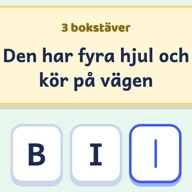
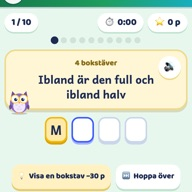
Ordgåtan: flera ledtrådar per ord, äldsta ord först, 50 ord på nivå 1 för granskning, ny kortbild

diff --git a/ovriga/ordgatan/index.html b/ovriga/ordgatan/index.html
@@ -159,7 +159,7 @@ const RUNDA=10,POANG=100,KOSTAR=30;
 
 /* ---------- Lagring (följer med profilen: nyckeln finns i startsidans PKEYS) ---------- */
 const KEY="mattespel-ordgatan-v1";
-const data=(()=>{const tom={stars:{},rekord:{},sett:{},omg:0};try{return Object.assign(tom,JSON.parse(localStorage.getItem(KEY)||"{}"));}catch(e){return tom;}})();
+const data=(()=>{const tom={stars:{},rekord:{},senast:{},vis:{},nr:0,omg:0};try{return Object.assign(tom,JSON.parse(localStorage.getItem(KEY)||"{}"));}catch(e){return tom;}})();
 const save=()=>{try{localStorage.setItem(KEY,JSON.stringify(data));}catch(e){}};
 
 /* ---------- Orden: en fil per nivå i ord/ (så att läraren kan ändra utan att röra koden) ---------- */
@@ -167,7 +167,9 @@ const ORD={};
 const normOrd=s=>String(s||"").toLowerCase().normalize("NFC").replace(/[^a-zåäöéü]/g,"");
 function laddaNiva(n){if(ORD[n])return Promise.resolve(ORD[n]);
   return fetch(`ord/niva${n}.json`).then(r=>r.json()).then(d=>{const sett=new Set();
-    ORD[n]=(d.ord||[]).map(o=>({ord:normOrd(o.ord),led:String(o.ledtrad||"").trim()})).filter(o=>o.ord.length>=2&&o.led&&!sett.has(o.ord)&&sett.add(o.ord));return ORD[n];});}
+    // "ledtradar" är en lista (flera gåtor per ord); en ensam "ledtrad" går också bra
+    ORD[n]=(d.ord||[]).map(o=>({ord:normOrd(o.ord),led:[].concat(o.ledtradar||o.ledtrad||[]).map(x=>String(x).trim()).filter(Boolean)}))
+      .filter(o=>o.ord.length>=2&&o.led.length&&!sett.has(o.ord)&&sett.add(o.ord));return ORD[n];});}
 // alla nivåer laddas direkt, så att omgången kan starta i samma tryck (annars kommer inte tangentbordet upp på surfplattan)
 const klara=Promise.all(NIVAER.map(v=>laddaNiva(v.n).catch(()=>[])));
 
@@ -188,11 +190,15 @@ $("nivaer").onclick=e=>{const b=e.target.closest("[data-n]");if(b)starta(+b.data
 
 /* ---------- Omgången ---------- */
 let G=null,tidT=null,nastaT=null;
-// ord som eleven inte fått än på nivån; när alla är använda börjar listan om
-function valjOrd(n){const alla=ORD[n]||[];let sett=new Set(data.sett[n]||[]);let nya=alla.filter(o=>!sett.has(o.ord));
-  shuffle(nya);let val=nya.slice(0,RUNDA);
-  if(val.length<RUNDA){const fler=shuffle(alla.filter(o=>!val.includes(o)));val=val.concat(fler.slice(0,RUNDA-val.length));sett=new Set();}
-  val.forEach(o=>sett.add(o.ord));data.sett[n]=[...sett];save();return val;}
+// minnet: vilken omgång varje ord senast kom (senast) och hur många gånger det kommit (vis).
+// Omgången tar de ord som legat längst (aldrig använda först), så att inget ord kommer igen förrän alla har kommit;
+// kommer ordet tillbaka får det nästa ledtråd i listan.
+function valjOrd(n){const alla=ORD[n]||[];data.nr=(data.nr||0)+1;
+  const sen=data.senast[n]=data.senast[n]||{},vis=data.vis[n]=data.vis[n]||{};
+  if(data.sett&&data.sett[n]){data.sett[n].forEach(w=>{if(!(w in sen)){sen[w]=0;vis[w]=1;}});delete data.sett[n];}// äldre sparat format
+  const val=shuffle(alla.slice()).sort((a,b)=>(sen[a.ord]??-1)-(sen[b.ord]??-1)).slice(0,RUNDA)
+    .map(o=>{const k=vis[o.ord]||0;sen[o.ord]=data.nr;vis[o.ord]=k+1;return{ord:o.ord,led:o.led[k%o.led.length]};});
+  save();return val;}
 function shuffle(a){for(let i=a.length-1;i>0;i--){const j=Math.floor(Math.random()*(i+1));[a[i],a[j]]=[a[j],a[i]];}return a;}
 function starta(n){if(!ORD[n]){klara.then(()=>ORD[n]&&ORD[n].length&&starta(n));return;}
   stopp();const ord=valjOrd(n);

diff --git a/CLAUDE.md b/CLAUDE.md
@@ -41,7 +41,7 @@ Publiceras med GitHub Pages på **matteportalen.github.io**. Allt språk på saj
 | `ovriga/` | **Övriga ämnen** (startsida i samma stil, grön ton) med rubrikerna **📖 Svenska** (Högfrekventa ord, Ordgömman, Ordgåtan), **🇬🇧 Engelska** (Draw it!), **🔬 NO** (Solsystemet) och **🌍 SO** (Sverigekartan). Kort: **🔤 Ordgömman** (`ovriga/ordgomma/`, nyckel `mattespel-ordgomma-v1` = {stars, klar, antal}, finns i startsidans stjärnor, `snap`, `PKEYS` och `MPStjarnor`): **varje ordgömma genereras** (lärarens krav: inte samma få gång på gång): 12 ord (Färger 10) slumpas ur temats ordbank och läggs i → ↓ ↘ ↗ (**inga ord baklänges**, lärarens val), korsar varandra ibland, utfyllnad med svensk bokstavsfördelning. Kontroll: varje ord finns exakt en gång i alla 8 riktningar, inga ord inuti andra (SOL/SOLSKEN), inga fula ord i utfyllnaden (`FULA`). Testat: 3 000 ordgömmor utan fel, alla olika. Rutnät 12×12, Landskapen 13×13 (VÄSTERGÖTLAND). **Ingen nivåväljare** (läraren). Tio teman med ordlistor som läraren godkänt: Djur, Frukt och grönsaker, Skolan, Kroppen, Färger, Kläder, Väder och årstider (med månaderna), Landskapen, Rymden, Städer i Sverige (ord 3–12 bokstäver; tvåbokstavsord bildas för lätt av en slump). **Design:** pysselblock (rutat papper med spiral) på en **temabakgrund** (äng, picknickduk, griffeltavla, prickar, färgklickar, klädstreck, himmel, gammal karta, stjärnhimmel) med emojis runt om; temakorten på startskärmen visar samma bakgrund. Dra över ordet (rakt eller 45°, åt båda hållen) eller tryck på första och sista bokstaven; överstrykningsgult band medan man drar, rätt = **handritad dubbel kritring** i ny färg och ordet stryks i listan, fel = bandet skakar och blir rosa (inget straff). Bokstäverna i rutnät och lista med **Andika** (Google Fonts, SIL OFL, för läsinlärning), eftersom Baloos L ser ut som Ł. Tryck på ett ord i listan = uppläsning. 💡 Tips: första bokstaven i ett ord blinkar. Klart: konfetti, djuret hoppar, tid; **stjärna per tema bara utan tips** (`klar` 2 = utan tips, 1 = med tips, kortet visar "⭐ Klar" / "💡 Med tips"). **🪐 Solsystemet** (`ovriga/solsystemet/`): 3D med **three.js 0.160.0** från jsdelivr (importmap; kräver internet, annars ett vänligt meddelande). Planetytor från **Solar System Scope (CC BY 4.0)**, komprimerade, i `ovriga/solsystemet/bilder/` (källan står i ℹ). Översikt: solen med glöd, åtta planeter på **verkliga positioner för datumet** (medellängd från J2000), Saturnus ringar, Uranus på sidan, banor, namnlappar (tryck), fart med **🐢 och 🐇** i steg och en text som "1 sekund = 12 dygn" (inte Långsamt/Normalt/Snabbt: läraren påpekade att "Normalt" låter som verklig fart); långsammaste steget är "1 sekund = 1 sekund, som i verkligheten", Idag, ℹ om att storlekar och avstånd inte är i skala. Tryck på en planet: kameran flyger dit och följer med, faktakort med 1–3 fakta för barn. **Tryck på jorden: jordvyn.** Kameran från sidan med solljuset (gula pilar, "☀ Solljus") från ena hållet; jorden snurrar ett varv per dygn med rätt tid på dygnet (dag/natt i egen shader, städernas ljus på nattsidan, moln, atmosfär), lutar 23,4°. Månen visar alltid samma sida mot jorden; fasen räknas från nymånen 6 jan 2000 (29,53 dygn) och stämmer med verkligheten. Ruta uppe till höger: **månen som vi ser den härifrån** (egen kamera vid jordytan, norr upp: tilltagande = höger sida upplyst), fasens namn (Nymåne, Tilltagande skära, Halvmåne (första kvarteret), Tilltagande måne, Fullmåne, Avtagande måne, Halvmåne (sista kvarteret), Avtagande skära), "Dag X av 30" och procent upplyst, plus en förklaring. Dra månen runt jorden eller använd reglaget; knapparna Ett dygn, En månad, Ett år spelar upp tiden. Bakåt i webbläsaren går från jordvyn/planeten till översikten. Bara att utforska, inga stjärnor. Direktlänk `solsystemet/#jorden` (från Rymdlabbets Månens faser) öppnar jordvyn som första steg, knappen heter då "← Rymdlabbet". **Rymdmatta:** en mjuk ljudslinga (`Ljud.rymd` i ljud.js: djupa toner, långsamma ackord Am9–Fmaj7–Cmaj7–Em7, glitter med eko) går hela tiden i 3D-solsystemet för känslan (lärarens önskan); startar vid första trycket, följer ljudknappen, stoppas när fliken göms. Översikten har alltid knappen **"← Rymdlabbet"** uppe till vänster (går bakåt om man kom från labbet, annars öppnas labbet). **🔭 Rymdlabbet** (`ovriga/rymdlabbet/`, kortet under NO som ersatte Solsystemet-kortet): läraren vill ha en **interaktiv lärmiljö som visar saker eleverna kan förstå, inga poäng, pass eller uppdrag** (rymdpass och rymduppdrag valdes bort). Överst ett **stort kort "🪐 Solsystemet i 3D"** (startport med planeterna i rad), sedan grupperna. Meny med lägen, varje läge har en förklaring med 🔊 som ändras efter vad eleven gör: **🌍 Dag och natt** (3D-jord med three.js som laddas först här; solljuset från vänster; ett gult sken med texten "Solljuset kommer härifrån" **följer med när man vrider kameran** och hamnar vid den kant där solen är ("rakt bakom dig/jorden" när den pekar mot eller från kameran), kameran snett ovanifrån; platsen Malmö/Stockholm/Kiruna med röd prick och en tjock ring på breddgraden som är **gul där det är dag och blå där det är natt**; reglage för klockan, "Spela ett dygn", datumen Idag/Midsommar/Lucia; rutan **Himlen hemma mot söder** (öster vänster, väster höger) med solens bana och läge; soluppgång och nedgång i svensk klocktid med sommartid, kontrollerat mot almanackan), **🍂 Årstiderna** (två vyer, lärarens önskan: **🌞 Runt solen** först: 3D-bild snett ovanifrån med solen i mitten, jorden (större än i verkligheten) som åker runt, **jordaxeln som alltid pekar åt samma håll, mot Polstjärnan** (lutar mot solen vid midsommar, bort vid jul), färgade årstidsbitar längs banan (vår grön, sommar gul, höst orange, vinter blå) med datumen, solstråle till jorden; en **röd knappnål utan text över Stockholm** som snurrar med jorden (textlappen "Sverige" var i vägen, men läraren vill se var vi bor); datumen ligger under jorden (på bortre sidan ovanför banan) så att de inte täcker jordgloben; **dra jorden runt banan**, kameran anpassar avståndet så att hela banan syns; den lilla rundeln ovanifrån togs bort. **🌍 Nära jorden**: samma jord som förut; jordaxeln lutar 23,4° åt ett håll som vrider sig ett varv på ett år, vid midsommar mot solen; datumreglage, 21 mars/juni/september/december, Spela ett år; liten bild ovanifrån med jordens bana; dagens längd, solhöjd mitt på dagen, midnattssol och mörkertid i Kiruna, jämförelse mellan städerna; rad om att det är tvärtom i Australien; solbanan med midsommar och jul streckade; snö på marken på vintern; "lutningen, inte avståndet"), **🌙 Månens faser** (länk till Solsystemets jordvy), **🌑 Förmörkelser** (2D ovanifrån, inte i skala: dra månen runt jorden, skuggor; mellan solen och jorden = solförmörkelse med strålkrans i rutan "Så ser det ut från jorden", bakom jorden = röd måne; annars visas månens fas; knappar Solförmörkelse/Månförmörkelse/Låt månen gå runt; förklaring om att månens bana lutar), **📏 Hur stora är de?** (planeterna, månen och solen i rätt storlek, zoomreglage och knapparna De små/Alla/Med solen, rullar i sidled i rutan, tryck på en planet: bredd, gånger jorden, hur många jordar som ryms), **🛣 Hur långt bort?** (avstånden rätt, planeterna förstorade; ⚡ ljus från solen med 1 s = 1 min eller 10 min och tid vid varje planet; Bara de inre; fotbollsjämförelsen och bilen till solen), **🔄 Ett år på varje planet** (alla startar på en linje, varv per planet, fart 10 dygn/1 månad/1 år per sekund; **Hur gammal är du?** med − och +, ålder på varje planet), **⚖ Väg dig och hoppa** (vikt med − och + (5–150 kg), kort per himlakropp med kg, gånger lättare/tyngre, gasplaneter "vi låtsas att du står på molnen", solen 837 kg men ingen kan stå där; **hoppa**: elevens djur hoppar samtidigt på jorden (30 cm) och vald himlakropp med verklig tid i luften, så att det går i slow motion på månen (182 cm)). Data från NASA; bilderna från `../solsystemet/bilder/`. **Stjärnor och universum** (tredje gruppen): **🌌 Zooma ut i universum** (reglage och knappar genom 8 steg: jorden, jorden och månen, inre solsystemet, hela solsystemet, närmaste stjärnorna med avstånd i ljusår, **Vintergatan** med "Du är här", Andromeda och grannarna, universum; tonar och zoomar mellan stegen; fakta per steg, bl.a. vad ett ljusår är), **⭐ Jättarna i rymden** (jorden, Jupiter, solen, Sirius, Sagittarius A*, Arcturus, Polstjärnan, Rigel, jordens bana, Betelgeuse, Jupiters bana, VY Canis Majoris, UY Scuti, Stephenson 2-18, Neptunus bana, M87*, TON 618): **på rad bredvid varandra** från minst till störst (lärarens önskan, inte i varandra); nya himlakroppar kommer in från höger och **kameran zoomar ut** mjukt (reglaget går genom himlakropparna, aktuell hålls ca 60 % in och ca halva bildens höjd; de små försvinner till vänster med texten "för små för att synas"); **▶ Resa genom jättarna** glider och stannar vid varje; aktuell himlakropp väljs automatiskt och visas i **inforutan** (bild, typ, bredd, avstånd, temperatur eller tyngd, "om solen var en fotboll"); stjärnorna ritas med solens yta i stjärnans färg, svarta hål med glödande gasskiva; streckade ringar för planetbanorna; storlekarna är ungefärliga. **🕳 Svarta hål** (**gummiduken**: perspektivritad duk som buktar ner; Solen, Svart hål lika tungt (samma bana långt ut, mycket djupare grop nära, lärorikt), Jättesvart hål; Släpp en planet (cirkelbana), dra på duken för att rulla en kula, 💡 Skicka ljus (strålarna böjs och fångas av hålet); **Krympmaskinen**: jorden blir ett svart hål 1,8 cm brett (vindruva), solen 6 km (liten stad)), **✨ Stjärnhimlen över Sverige** (riktiga positioner för stjärnor och stjärnbilder: Karlavagnen, Lilla björn, Kassiopeja, Orion, Sommartriangeln och klara stjärnor; mot norr eller söder, klockreglage 17–07, datum Idag/Jul/Vår/Sommar/Höst, Se himlen vrida sig runt Polstjärnan, ljust på sommarnätter), **🔥 En stjärnas liv** (två vägar: som solen: gasmoln, ny stjärna, stjärna, röd jätte, vit dvärg; jättestjärna: gasmoln, blå jätte, röd superjätte, supernova, svart hål; knappen "Hur blir ett svart hål till?" i Svarta hål leder hit). **Canvas-typsnitt:** skriv `"Baloo 2"` med citattecken i `ctx.font`, annars ignoreras hela inställningen (siffran i namnet). **🗺 Sverigekartan** (`ovriga/sverigekartan/`, inför åk 4 men för alla): Sveriges 25 landskap med **landskapsdjur, landskapsblomma och vapen**. Landsdelarna som nivåer (Götaland, Svealand, Norrland, Hela Sverige). Lägen: **Utforska** (tryck på ett landskap: vapen, namn med 🔊, landsdel, djur- och blombild, en kort fakta; "Visa namn"), **Vilket landskap?** (ett landskap lyser, 4 namn), **Hitta landskapet** (tryck på kartan; små landskap som Öland räcker att trycka nära), **Pusslet** (dra landskapen till sina streckade platser; bitarna ligger bredvid/under kartan och blir full storlek när man lyfter dem). Fel: rätt landskap lyser, förklaring, uppgiften kommer tillbaka. Efter rätt svar visas vapen, djur och blomma som minneshjälp. **📍 Sätt nålen** (lärarens idé, ligger under **Städer**): hela Sverigekartan med **landskapsgränser men utan färger, namn, sjönamn och prickar**; "Var ligger Västerås?", man trycker var som helst och en nål sätts; sedan visas staden (prick, namn, stadens landskap med kontur), en streckad linje och **hur många km från staden nålen hamnade** (kartpunkten räknas tillbaka till lat/long med Newton på anpassningen, sedan storcirkelavstånd; ≤10 km = "Mitt i prick!"). **Inom 80 km = bra** (grönt, går vidare själv; lärarens gräns), längre bort = rosa, "Över 80 km, den behöver du öva mer på" och Fortsätt; frågan kommer inte tillbaka. Stjärna med minst 8 träffar av 10, resultatet visar snittavståndet. "på Gotland/Öland", annars "i". **🏆 Stora landskapsprovet** och **🏆 Stora stadsprovet** (lärarens önskan: ett test med alla på en gång): alla 25 landskap respektive alla 31 städer en gång var på hela kartan (Hitta-läget), fel kommer inte tillbaka; resultat "24 av 25" och "Öva mer på: …"; stjärna med minst 90 % rätt (`klar.prov` bit 256/512, `stars.prov`). Spelkartan är lägre på mobil (100dvh − 250 px) så att hela Sverige syns utan att skrolla. **Städer** (växeln 🏞 Landskap / 🏙 Städer): 31 städer, de stora (Stockholm, Göteborg, Malmö, Uppsala, Västerås, Örebro, Linköping, Norrköping, Helsingborg, Jönköping, Umeå, Gävle, Sundsvall, Luleå, Kiruna, Karlstad, Östersund, Falun, Visby …) plus en i varje landskap (Sveg, Åmål, Borgholm, Uddevalla, Hudiksvall, Örnsköldsvik …); Lund togs inte med (för nära Malmö). Lägen: Utforska städerna (prickar, namn, stadens landskap med vapen, en fakta), Vilken stad? (hälften "vilken stad lyser?", hälften "i vilket landskap ligger X?"), Hitta staden (tryck på rätt prick, närmaste prick inom 26 px). Stockholm har tjock ring (huvudstad), pricken som lyser är orange och större. Lägena räknas från latitud/longitud med en andragradsanpassning till kartan (Sveriges ytterpunkter som stödpunkter); kuststäder flyttade in max 1,5 enheter. Stjärnor: en per spel och landsdel (Vilket, Hitta och stadsspelen med högst ett fel, Pusslet klart, Sätt nålen 8 av 10 nära), sex per landsdel, plus två för proven och två för älvarna. En stad blir mörk efter två rätt i rad (`stad`). Ett landskap färgas på kartan efter två rätt i rad och kan bli blekt igen vid fel (som samlingarna). **Karta:** landskapsgränserna från Sverigekarta-Landskap.svg (Lapplänning, CC BY-SA 2.5), förenklad och inlagd i sidan; sjöarna är hål (Vänern, Vättern, Mälaren har namn). **Naturkartan under** (lärarens önskan, den gamla var blek): `bilder/norden.jpg` (1570×1480, ca 240 kB) gjord av **Natural Earth (public domain)**: höjdfärger med relief, sjöar och älvar (HYP_HR_SR_OB_DR) blandat med vegetation (NE1_HR_LC_SR_W), omräknad till kartans koordinater (projektion RT90/EPSG:3021 + affin anpassning mot landskapens kust, median 0,8 enheter ≈ 2 km), Sverige i starkare färger, grannländerna dovare, sjöar blå. Skriptet ligger inte i repot; `NORDEN` i sidan = bildens läge, grannländernas konturer (streckade) och namn på länder och hav. Landskapen ritas som **genomskinliga ytor** med vita gränser ovanpå. **Bildens form följer rutan** (`fitBox`): Sverige i mitten, grannländerna fyller kanterna i stället för tomma ytor. **Spelskärmen** (omgjord, frågan var lätt att missa och halva skärmen var tom på dator): frågan **stor överst** i en vit ruta (stannar kvar högst upp när man skrollar), förloppslinje under; **kartan till vänster** i full höjd, **panelen till höger** med svarsknappar eller en "så gör du"-ruta (👆/📍/🌊/🧩), återkoppling, kortet med vapen, djur och blomma, Fortsätt och **rundans svar** (✓/✗-lappar). **Bilder** i `bilder/` (beskurna 360 px): blommor ur **Lindmans Bilder ur Nordens flora** (PD), lin ur Köhlers Medizinal-Pflanzen, mosippa ur Sturm, ölandssolvända ur Atlas der Alpenflora; fåglar ur **von Wrights Svenska fåglar** (Rawpixel-skanningar, CC BY-SA 4.0), däggdjur ur **Thorburns British mammals** (PD), Wilhelm von Wrights lodjur, Audubons fjällräv (CC BY 2.0 Rawpixel), Iconographia Zoologica (björn, älg, varg, bäver, rådjur, PD), Dürers ekoxe, von Wrights lax ur Skandinaviens fiskar; vapen från Wikimedia Commons (CC BY-SA, Leonid 2/Lokal_Profil). Målningar valdes framför emojis och foton (lärarens val). Full källförteckning i sidan ("Bilder och källor"). Landskapsblommor enligt Naturhistoriska riksmuseets Den virtuella floran, annars Wittrock. Nyckeln `mattespel-sverigekartan-v1` ({stars, klar, kan}) finns i startsidans stjärnor, `snap` och `PKEYS` och i sidhuvudets `MPStjarnor`. **🌊 Älvar** (tredje fliken, alltid hela Sverige, inga landsdelar): 13 älvar (Torne-, Kalix-, Lule-, Pite-, Skellefte-, Ume-, Ångermanälven, Indalsälven, Ljungan, Ljusnan, Dalälven, Klarälven, Göta älv) med landskap de rinner genom, var de rinner ut och en fakta. Linjer från **Natural Earth** (public domain), omräknade med samma anpassning som städerna, beskurna till Sverige (punkter nära gränsen räknas, Torneälven är gränsälv), ihopfogade så att första punkten är källan och sista mynningen. Lägen: Utforska älvarna (tryck på en älv; bred osynlig träffyta), Vilken älv? (8 frågor, en älv lyser), **Följ älven** (5 älvar: börja vid den gröna källpricken och dra längs älven, vattnet fylls på efter fingret, inom ca 28 px; framme vid 🌊 visas var den rinner ut). Stjärnor under `klar.alv`/`stars.alv` (bit 64 Vilken älv med högst ett fel, 128 Följ älven), högst 2. **Uppläsning bara med 🔊** även här. | `mattespel-sverigekartan-v1` |
 | `ovriga/hogfrekventa/` | **📖 Högfrekventa ord** (Övriga ämnen, 📖 Svenska, först; lärarens önskan: träna helordsläsning). **200 ord i 20 paket om 10**, **flera paket kan väljas samtidigt** (lärarens önskan; tryck på paketen, "Välj alla påbörjade", "Bara ett paket"; `pks`; Lär dig visar alla valda ord, Blixtläsning och Hitta ordet tar ord ur de valda, helst sådana man inte kan än, Ord på en minut tar orden ur de valda paketen) (`PAKET`, ordningen efter hur vanliga orden är i barntext, listan godkänd av läraren: i, och, det, är, jag …). **Källa och täckning** (kontrollerat okt 2026): Språkbankens **LäSBarT** (lättläst svenska och barnbokstext, CC BY 4.0), bara barnböckerna (åldrarna 6–9 och 9–12, 426 500 ord): de 200 orden stod först för **60,6 %** av orden (en ren topplista skulle ge 64,9 %; topp 100 = 56 %, topp 300 = 70 %); står i en ℹ-rad på startskärmen. Ovanliga i barnböcker: sade (böckerna skriver "sa"), skola, leker, imorgon, slutade, rolig, dricker, katt, skriker, bok, säng, sover, hund; vanliga som saknas: ha, blir, få, göra, min, hans, hennes, ni, ta, allt, några, mer, tillbaka, säga, mitt, finns, kvar, ihop, ingenting, din (**bytta okt 2026**, lärarens beslut: i paket 8, 12, 15, 16, 17 och 20 på samma platser; täckningen är nu **62,8 %**, ℹ-raden säger 63 %; stjärnorna räknades om en gång, `lista: 2`). Analysskriptet ligger inte i repot. **✏ Egna ord** (lärarens önskan): ett 21:a paket där en vuxen skriver in egna ord (högst 40, mellanslag eller kommatecken, bara bokstäver, gemener, utan dubbletter; `egna`, paketindex 20), fungerar i alla lägen som de andra paketen; "✏ Ändra egna ord" när det är valt. Ingen markering av ord som inte låter som de stavas (lärarens val: 👂 och "låter som" togs bort överallt). Typsnittet **Andika** (som Ordgömman), en klar färg per ord. Lägen: **👀 Lär dig orden** (ordet stort, 🔊 Hör ordet, Väljaren **Ljud | Stavelser | Hela ordet** (lärarens önskan; överst i Lär dig orden och på startskärmen, sparas i `visa`): **Ljud** = skenan med ett streck per ljud, **Stavelser** = ett streck per stavelse och en hel stavelse lyser åt gången, varannan stavelse i lite mörkare färg (`stavelser(w)` bygger på ljuden: dubbelteckning och r-ljuden delas, mam·ma, bor·ta; ng och ck stannar i stavelsen före, spring·er, tyck·er; annars hamnar sista konsonanten före en vokal i nästa stavelse, le·ker, kan·ske, till·sam·mans, i·mor·gon; ord med en stavelse, som kväll, får **en enda markering** och texten "Ordet har bara en stavelse", lärarens önskan), **Hela ordet** = ingen skena, bara ordet och 🔊. **Ljuda ordet** (ersatte "Visa ljuden", lärarens önskan efter en läsapp i ett klipp): barnet **drar en knapp längs en skena** under ordet, ljudet ovanför knappen lyser rött och förstoras, prickar under varje ljud och **bågar över ljud med flera bokstäver**; når knappen slutet lyser hela ordet ("Snyggt! Nu läste du ihop ljuden" om det gick fort, annars "Dra lite fortare nästa gång"); barnet säger ljuden själv (datorns röst kan inte säga enstaka ljud, den säger "ess" för s), 🔊 läser hela ordet; långa ord krymper tills de får plats; ord i `HELORD` får ingen skena ("lär man sig som ett helt ord"). Uppdelningen i ljud (`ljud(w)`, lärarens fynd: bokstav för bokstav blev fel; sk före e/i/y/ä/ö, sj, skj, stj, sch, tj, kj, dj, gj, hj, lj, ng, ck, ch, rs, rt, rd, rn, rl (första, bort, barn, lärarens påpekande) och dubbelteckning som tt/mm är ett ljud, sk före a/o/u/å är s + k; ord som inte följer reglerna, `HELORD`: och, det, är, jag, de, dem, var, vad, mig, dig, sig, också, säger, honom, sedan, sade, bredvid, lyser som en helhet; huvud och aldrig ljudas, och morgon/imorgon ljudas m·o·rg·o·n med rg som ett ljud (`EGNA`), lärarens val), så att bokstäverna kopplas till ljuden; forskningen säger att helord fastnar så, inte genom att minnas formen), **⚡ Blixtläsning** (20 ord: paketets två gånger och några tidigare, i vald fart 3/2/1,5/1/0,5 s (0,5 s önskat av klassen) med en stapel som krymper; eleven läser högt; efteråt trycker eleven på svåra ord, resten räknas som lästa), **🔍 Hitta ordet** (strömlinjeformat, lärarens önskan: **ordet läses upp direkt** (undantag från "uppläsning bara med 🔊", lärarens val för just den här övningen), eleven trycker på rätt ord bland fyra liknande, rätt = grönt och pling och **nästa ord kommer av sig självt**, fel = skakar och ordet läses upp igen; "🔊 Hör igen" finns kvar; rättar sig självt), **⏱ Ord på en minut** (lärarens önskan: som på Legilexi, en lång lista med **150 ord** ur paket 1 till valt paket, aldrig samma ord två gånger i rad, så att även de snabbaste inte hinner klart; 3-2-1, en minut; en vuxen trycker på felläsningar (röda, överstrukna) och sedan på ordet där eleven slutade; resultat = rätt lästa ord på en minut, med stapeldiagram över de senaste gångerna och rekord; inga normer). Välj lista: **Övade ord** (blandat ur valda paket) eller **📈 Stigande lista A/B** (lärarens önskan, i samma anda som Legilexis AVK1/H4 av Rikard Lindahl, där 144 riktiga ord blir successivt längre och svårare, men **en egen lista**, inte kopierad): 150 vanliga ord ur barnböckerna i LäSBarT i sex steg (2–3 bokstäver ljudenliga, 3–4 ljudenliga, 4–5, tvåstaviga 5–7, trestaviga 6–9, 3–5 stavelser 9–14 bokstäver), de vanligaste orden i varje steg delade varannan till A och B och sorterade efter längd; samma ord varje gång så att resultaten kan jämföras över tid; långa ord med mindre text; resultaten sparas för sig (`stig`, med version) och räknas inte in i paketens "kan" (bara övningens egna ord gör det); **inte normerad**, inga nivåer (lärarens beslut: en jämförelse mot H4 hoppades över). Ordbitar och bokspecifika ord borttagna (säkerhets, knäpptanten, urmakaren, glasögonmannen …). Analysskriptet ligger inte i repot. **🎤 Lyssna på mig** (lärarens önskan; tillval, av från början, ruta med förklaring innan det slås på): webbläsarens taligenkänning (Chrome/Edge skickar ljudet till Google/Microsoft, Safari till Apple, Firefox saknar den; i skolan bör dataskyddsombudet tillfrågas), används i Blixtläsning (ordet blir grönt och plingar när datorn hör det) och i **Ord på en minut** (lärarens önskan: datorn följer med i listan, hörda ord blir gröna, även om eleven hoppat över ett eller två ord; när minuten är slut föreslås det sista hörda ordet som slutord och den vuxna bekräftar eller trycker på rätt ord; felläsningar markerar den vuxna); **matchningen från Mikrofonlabbet** (okt 2026, efter lärarens test): uttalsformer (`UTTAL`, även har: ha, hör), längre ord får skilja en bokstav, korta ord en extra bokstav (vi/vid) om det inte är ett annat ord i listan, två ord som hörts ihop delas ("förmed" = för + med, `ihop`); i Blixtläsning räknas ordet som visas eller det förra; i Ord på en minut används även preliminära resultat (orden blir gröna medan eleven läser), bara nya ord i hela texten sedan lyssnandet startade räknas (Chrome flyttar gränserna mellan resultaten), och ett ord letas upp till åtta ord framåt och fyra bakåt (lärarens inspelning: 29 av 30, förut 27); **Två sätt att lyssna** (lärarens val efter mobiltestet, där KB-Whisper hörde 22 av 30 med 0,5 s per körning): i rutan "Lyssna på mig" väljer man **🌐 Webbläsaren** (som förut) eller **🧠 I enheten (KB-Whisper)** (`data.motor` = "web"/"kb"); sidan föreslår webbläsaren i Chrome på dator (inte Chrome eller Samsung Internet på Android, lärarens fynd; lärarens mobiltest gjordes i Samsung Internet) och I enheten annars ("Föreslås här", `FORSLAG`; Edge och Safari stänger av lyssnandet efter korta pauser). I enheten laddas modellen ner när man trycker Slå på, med mätare ("Laddar ner 20 av ca 52 MB"), och sedan i förväg från cachen när sidan öppnas; inget ljud lämnar enheten, fungerar utan internet efter första gången. Koden ligger i **`ovriga/hogfrekventa/kbwhisper.js`** (`MPWhisper.ladda/start/stop`, egen mikrofon med röstvakt, preliminära körningar varje ny sekund tal, bitar som väntar körs tillsammans); Mikrofonlabbet har kvar sin egen kopia för tester. I Blixtläsning räknas med I enheten även ordet två steg bakåt. Siffror räknas som ord ("1" = ett/en, `SIFFROR`) och "män" som "men". I Ord på en minut står "💡 Fungerar bäst i Chrome på dator, eller välj 🧠 I enheten" när webbläsaren används utanför Chrome. Testat: låtsasmikrofon (Alva) i Ord på en minut 24 av 30 med I enheten på processorn, inga felaktigt gröna ord; flera gissningar och uttalsformer godtas, den kan **bara ge grönt, aldrig rött** (korta ord som "i" och "en" hörs dåligt). Webbläsaren stänger av taligenkänningen efter en stunds tystnad; den startas om **direkt** (förut med en fördröjning, lärarens fynd: ord i glappet hördes inte), och lampan "lyssnar" är grön när den lyssnar och grå ("startar …") medan den startar om. Uppläsning annars bara med 🔊. Ett ord räknas som **"kan"** när det lästs rätt två olika dagar (Blixtläsning utan "svårt", Hitta ordet rätt direkt, Ord på en minut utan fel). Stjärnor per paket: 1 alla ord sedda, 2 minst 5 kan, 3 alla kan. | `mattespel-hogfrekventa-v1` ({stars, ord:{ord:{d,n}}, opm, pk, fart, mic, motor}; i startsidans stjärnor, `snap`, `PKEYS` och `MPStjarnor`) |
 | `ovriga/hogfrekventa/miklabb/` | **🎤 Mikrofonlabbet** (testsida för vuxna, ingen länk från övningen; lärarens fynd: webbläsarens taligenkänning stänger av efter ett ord, Edge och Safari avslutar efter kort tystnad, och omstarten tar en halv sekund just när nästa ord sägs). Jämför sida vid sida **webbläsarens taligenkänning** (som övningen använder) och **KB-Whisper** (`KBLab/kb-whisper-tiny`, Kungliga biblioteket, svenska, ONNX q4f16 ca 52 MB, körs i webbläsaren med **transformers.js 4.3.1** från jsdelivr; WebGPU om det finns, annars processorn i egen tråd; inget ljud lämnar enheten). KB-Whisper får ljudet från en **egen mikrofon som aldrig stängs av** (AudioWorklet, 16 kHz) och en enkel röstvakt som delar ljudet vid pauser (0,3 s); bitar som väntar körs **tillsammans** (en körning tar ungefär lika lång tid oavsett längd). Ordlista (paket 1–3, 4–6 eller egna), lägen Hela listan / Ett ord i taget (0,5–2 s), rutnät med 🌐/🧠 per ord, resultat (hörda ord, svarstid, antal avstängningar och "döv tid" för webbläsaren, körtid för KB-Whisper), logg över vad som hördes och **📋 Kopiera resultatet** (att skicka till Claude). Matchning: samma uttalsformer som övningen (+ har: ha, hör), längre ord får skilja en bokstav, korta ord en extra bokstav på slutet (vi/vid) om det inte är ett annat ord i listan, **två ord som hörts ihop** delas ("förmed" = för + med, "tillhör" = till + har), letar åtta ord framåt från senast hörda ord och fyra bakåt (lärarens första test: KB-Whisper hörde nästan allt men fick bara 8 av 30 eftersom matchningen fastnade; samma ljud ger nu 28). KB-Whisper gör **preliminära körningar** varje ny sekund tal när man läser utan pauser, och en bit som klipps efter 6 s tar med sig de sista 0,3 s till nästa. Lärarens första test, Chrome på Mac: webbläsaren stängde aldrig av (29 av 30 med nya matchningen), KB-Whisper 0,6 s per körning på grafikkortet. Testat med låtsasmikrofon (Alva läser paket 1–3): KB-Whisper hörde 20 av 30 på processorn utan grafikkort, 1,6 s per körning. Nästa steg efter lärarens test: välja teknik för övningen. | – (sparar inget) |
-| `ovriga/ordgatan/` | **❓ Ordgåtan** (Övriga ämnen, 📖 Svenska; lärarens beställning, idén från en ordgåta på krysskort.se men **eget utseende, namn och egna ledtrådar**): eleven läser en ledtråd och skriver ordet; rutorna visar antalet bokstäver. **10 ord per omgång**, räknare "3 / 10", prickar, timer och poäng. Knappar **💡 Visa en bokstav** (nästa bokstav från vänster som inte stämmer, låst i guld; högst alla utom en), **⏭ Hoppa över** (ordet läggs sist och kommer tillbaka en gång, andra gången 0 p) och **🏳 Ge upp** (visar svaret, 0 p). 100 p per ord minus kostnaden per visad bokstav. Fel svar: rutorna skakar mjukt, "Inte riktigt, prova igen!", kostar inget; svaret rättas när alla rutor är fyllda (eller Enter). **Eget tangentbord ritas inte**: ett osynligt textfält ligger över rutorna (å, ä, ö fungerar, ingen autokorrigering), får fokus i samma tryck som startar omgången så att tangentbordet kommer upp på surfplattan, och tryck på rutorna ger fokus igen. 🔊 läser ledtråden (bara vid tryck). Elevens djur sitter på ledtrådslappen och hoppar vid rätt. Slutskärm: rätt av 10, poäng, tid, rekord, stjärnor och alla ord med ledtråd. **Nivåer** (eleven väljer, inga årskurser): 1 korta vardagsord, 2 motsatser, synonymer, sammansatta ord, 3 långa ord, ordspråk (lucka ___), begrepp och knepig stavning. **Orden ligger i `ovriga/ordgatan/ord/niva1.json`, `niva2.json`, `niva3.json`** (ett ord per rad: `{"ord": "säl", "ledtrad": "…"}`; läraren kan ändra utan att röra koden; ledtråden får inte innehålla svaret, kontrolleras när listorna skrivs); alla tre laddas när sidan öppnas. **Minne:** ord som eleven fått sparas per nivå (`sett`) och kommer inte igen förrän alla på nivån använts. Stjärnor per nivå (lärarens val): ⭐ minst 6 rätt, ⭐⭐ minst 8, ⭐⭐⭐ 10 rätt och minst 800 p. Klistermärken Ordknäckaren (en omgång) och Ordgåtsmästaren (tre stjärnor på nivå 3). Just nu en **testlista** (20 + 12 + 12 ord); fylls på omgång för omgång (ca 50 åt gången, läraren granskar). Kortet ligger under 📖 Svenska efter Ordgömman (kortbild `ovriga/bilder/kort/ordgatan.jpg`, ledtråd och rutor ur spelet). Senare idé: en Mastermind-variant (ord eller sifferkod) i egen mapp som kan läsa samma ordfiler. | `mattespel-ordgatan-v1` ({stars, rekord:{n:{p,tid}}, sett:{n:[ord]}, omg}; i startsidans stjärnor, `snap`, `PKEYS` och `MPStjarnor`) |
+| `ovriga/ordgatan/` | **❓ Ordgåtan** (Övriga ämnen, 📖 Svenska; lärarens beställning, idén från en ordgåta på krysskort.se men **eget utseende, namn och egna ledtrådar**): eleven läser en ledtråd och skriver ordet; rutorna visar antalet bokstäver. **10 ord per omgång**, räknare "3 / 10", prickar, timer och poäng. Knappar **💡 Visa en bokstav** (nästa bokstav från vänster som inte stämmer, låst i guld; högst alla utom en), **⏭ Hoppa över** (ordet läggs sist och kommer tillbaka en gång, andra gången 0 p) och **🏳 Ge upp** (visar svaret, 0 p). 100 p per ord minus kostnaden per visad bokstav. Fel svar: rutorna skakar mjukt, "Inte riktigt, prova igen!", kostar inget; svaret rättas när alla rutor är fyllda (eller Enter). **Eget tangentbord ritas inte**: ett osynligt textfält ligger över rutorna (å, ä, ö fungerar, ingen autokorrigering), får fokus i samma tryck som startar omgången så att tangentbordet kommer upp på surfplattan, och tryck på rutorna ger fokus igen. 🔊 läser ledtråden (bara vid tryck). Elevens djur sitter på ledtrådslappen och hoppar vid rätt. Slutskärm: rätt av 10, poäng, tid, rekord, stjärnor och alla ord med ledtråd. **Nivåer** (eleven väljer, inga årskurser): 1 korta vardagsord, 2 motsatser, synonymer, sammansatta ord, 3 långa ord, ordspråk (lucka ___), begrepp och knepig stavning. **Orden ligger i `ovriga/ordgatan/ord/niva1.json`, `niva2.json`, `niva3.json`** (ett ord per rad: `{"ord": "bil", "ledtradar": ["…", "…"]}`, **två eller tre ledtrådar per ord** (lärarens önskan: orden tar annars slut på några omgångar), en ensam `"ledtrad"` går också; läraren kan ändra utan att röra koden; ledtråden får inte innehålla svaret, kontrolleras när listorna skrivs). **Ledtrådstyper blandas** på alla nivåer: beskrivning (på nivå 1 med ett tänkesteg, "Den har fyra hjul och står i garaget"), lätta synonymer ("Ett annat ord för kompis"), motsatser, rim ("Rimmar på hatt och säger mjau"), lucka i en mening; nivå 3 även ordspråk och begrepp; alla tre laddas när sidan öppnas. **Minne:** per nivå sparas vilken omgång varje ord senast kom (`senast`) och hur många gånger (`vis`); omgången tar de ord som legat längst (aldrig använda först), så inget ord kommer igen förrän alla har kommit, och ett ord som kommer tillbaka får nästa ledtråd i listan (gamla `sett` flyttas över). Stjärnor per nivå (lärarens val): ⭐ minst 6 rätt, ⭐⭐ minst 8, ⭐⭐⭐ 10 rätt och minst 800 p. Klistermärken Ordknäckaren (en omgång) och Ordgåtsmästaren (tre stjärnor på nivå 3). Ordlistor: nivå 1 har första omgången om 50 ord (för granskning), nivå 2 och 3 en testlista om 12; fylls på omgång för omgång (ca 50 åt gången, läraren granskar) mot ca 200 per nivå. Kortet ligger under 📖 Svenska efter Ordgömman (kortbild `ovriga/bilder/kort/ordgatan.jpg`: spelet med en guldbokstav och tomma rutor, så att bilden inte avslöjar ett svar). Senare idé: en Mastermind-variant (ord eller sifferkod) i egen mapp som kan läsa samma ordfiler. | `mattespel-ordgatan-v1` ({stars, rekord:{n:{p,tid}}, senast:{n:{ord:omgång}}, vis:{n:{ord:antal}}, nr, omg}; i startsidans stjärnor, `snap`, `PKEYS` och `MPStjarnor`) |
 | `ovriga/europa/` | **🌍 Europakartan** (under SO i Övriga ämnen): **50 länder** ("alla som syns i Europa på Google Maps", lärarens önskan: Europas länder inkl. småstaterna och Kosovo, Ryssland, Belarus, Ukraina, Turkiet, Cypern, Georgien, Armenien, Azerbajdzjan; inte Kazakstan) med svenskt namn, **huvudstad**, språk och en fakta (`C` i sidan). Regioner som nivåer: Norden, Västeuropa, Centraleuropa, Sydeuropa, Balkan, Östeuropa och Kaukasus, samt Hela Europa. **Naturkarta** `bilder/europa.jpg` (2216×1549, ca 440 kB) gjord som Sverigekartans (Natural Earth, public domain; projektion ETRS89-LAEA/EPSG:3035, 1 enhet = 5 km); länderna i `M` (konturer, mittpunkt, huvudstadens läge, fastlandets ruta), övriga länder dovare. **Flaggor** i `flaggor/xx.svg` från **flag-icons** (MIT, Panayiotis Lipiridis). Lägen: Utforska (flagga, huvudstad, språk, region, fakta, 🔊; Visa namn, Visa huvudstäder), Vilket land?, Hitta landet, **Huvudstäder** (hälften "Vad heter huvudstaden i X?", hälften "Y är huvudstad i vilket land?" med huvudstaden som prick), **Flaggor** ("Vilket lands flagga är det här?", på mobil står flaggan i frågerutan), **🏆 Stora Europaprovet** (alla 50, stjärna vid 90 %). Samma spelskärm som Sverigekartan (stor fråga, karta och panel, rundans svar). **Små länder** (Vatikanstaten, Monaco, San Marino, Liechtenstein, Malta, Andorra, Luxemburg) har en vit ring; trycket på en ring inne i ett större land (Vatikanstaten i Rom) räknas som rätt för båda, och vid gränser vinner det mindre landet. Stjärnor: en per region och spel (högst ett fel) + provet; ett land färgas efter två rätt i rad. | `mattespel-europa-v1` ({stars, klar, kan}; i startsidans stjärnor, `snap`, `PKEYS` och `MPStjarnor`) |
 | `ovriga/varlden/` | **🌐 Världskartan** (under SO): **7 världsdelar** (Europa, Asien, Afrika, Nordamerika, Sydamerika, **Oceanien** (lärarens val, Australien nämns i faktan), Antarktis) och **5 världshav** (Stilla havet, Atlanten, Indiska oceanen, Norra ishavet, Södra ishavet; inga andra hav, lärarens val). Naturkarta `bilder/varlden.jpg` i **Equal Earth** (EPSG:8857, rätt ytor; 1 enhet = 20 km) från Natural Earth, oval form; världsdelarna ur Natural Earths länder (Ryssland väster om 59,5° Ö räknas till Europa); haven ur Natural Earths havsytor, där varje vattenruta (1°) hör till närmaste världshav. Lägen: Utforska (fakta + djurbilder för världsdelen; för haven "Här lever bland annat:" med riktiga foton: Norra ishavet isbjörn, valross, narval; Södra ishavet leopardsäl, adéliepingvin, krill; Atlanten lunnefågel, atlantlax, torsk; Stilla havet havsutter, kaliforniskt sjölejon; Indiska oceanen dugong, kvastfening; under varje havsdjur en rad om **var i havet** det lever (t.ex. lunnefågeln: norra Atlanten, Island och Norge; läraren påpekade att det annars såg ut som att den bor överallt); inget spel om havsdjur, eftersom många simmar mellan haven), Vilken världsdel?, Vilket hav?, Hitta på kartan (alla 12), Pusslet (dra världsdelarna till streckade platser; kartan får `touch-action:none` under pusslet, annars skrollar mobilen och biten flyttar sig bara en liten bit; samma i Sverigekartans pussel), **Var bor djuret?** (15 djur: lejon, giraff, zebra, flodhäst, jättepanda, tiger, orangutang, känguru, koala, lama, sengångare, bisonoxe, tvättbjörn, igelkott, kejsarpingvin; **riktiga foton, inga emojis** (lärarens krav), från Wikimedia Commons (CC BY-SA/CC BY/PD, fotograf och licens i "Bilder och källor"), beskurna 360 px i `bilder/djur/`; dra bilden till världsdelen eller tryck på den), 🏆 Stora världsprovet, **📐 Lurad av kartan?** (lärarens idé efter sajten "The true size of", eget utförande: en Google Maps-lik **Mercatorkarta** `bilder/mercator.jpg` (Natural Earth, lat −60…80); **alla länder** (242 st med svenska namn ur Natural Earth, `bilder/lander.json`, laddas först här) plus "Afrika (hela världsdelen)"; tryck på ett land eller sök (datalist) för att lyfta upp en färgad kopia och dra den; landet flyttas på jordklotet (först längs longituden, sedan längs meridianen) och ritas om, så det krymper mot ekvatorn och växer mot polerna; lista med riktig yta i km² (sfärisk yta), "här ser det X gånger så stort ut" och "A är N gånger större än B"; snabbknappar Grönland mot Afrika, Sverige till ekvatorn, Kanada mot Brasilien, Ryssland mot Afrika; valet **Vilken karta?: 🗺 Som Google Maps / 🌍 Rätt storlekar** (inte "vanlig karta", lärarens önskan) byter till Världskartans Equal Earth (projektion och invers i JS); inga stjärnor). Samma spelskärm som de andra kartorna. Stjärnor: en per läge (högst ett fel), provet vid 90 %. | `mattespel-varlden-v1` ({stars, kan}; i startsidans stjärnor, `snap`, `PKEYS` och `MPStjarnor`) |
 | `ovriga/rita/` | **🎨 Draw it!** (Övriga ämnen, 🇬🇧 Engelska; lärarens idé efter Googles Quick, Draw!, eget utförande): engelsk ordträning. Eleven får ett engelskt ord ("Draw: a cat", kort intro 1,6 s), ritar på en duk med finger eller mus och **datorn gissar på engelska medan man ritar** ("I see a bracelet?", högst ca tre gånger i sekunden; **rätt först när datorn är riktigt säker** (lärarens fynd två gånger: den gissade rätt innan man hunnit rita): ordet är förstahandsgissningen och ordets kategorier har minst **60 %** (`SAKER`), **tre kontroller i rad** (ca en sekund, `G.saker`) och eleven har ritat i minst **3 sekunder** (`MINTID`, från första strecket); under tiden står "Hmm … I think I know … 🤔". **Inga gissningar på ett ensamt streck** (lärarens fynd: ett streck blev alltid "string bean"): med bara ett streck gissar datorn inte högt på annat förrän efter 1,5 s, och aldrig om strecket är nästan rakt (`nogRitat`); "line", "squiggle" och "zigzag" sägs aldrig (`TYST`), och string bean heter green bean. Datorn fortsätter gissa när eleven slutat rita (från `tick`, samma gissning återanvänds om teckningen inte ändrats). Först räckte topp tre med 6 %, sedan förstahandsgissning med 25 %; kontrollerat med en ritande robot: en ensam ring blir "circle", en sol ritad på 1,6 s godkänns efter 3,4 s). **20 sekunder per ord** (lärarens val, "vi testar med 20 sek"), tidsstapel, Sudda allt, Hoppa över. **Den svenska översättningen är dold** tills eleven trycker på **🇸🇪 Visa på svenska** (lärarens val). Datorn **säger sina gissningar och ordet högt** med engelsk röst (undantag från regeln om 🔊, lärarens val; följer ljudknappen). **Tolv teman, 305 ord** (lärarens önskan om fler, två gånger): Animals 24, Wild animals 24, Food 29, At home 47, At school 23, Nature 27, Body and clothes 36, Vehicles 21, Sport and music 28, In town 16 (slott, kyrka, fyr, Eiffeltornet, Mona Lisa …), Tools 17, Fairy tales 13 (drake, sjöjungfru, svärd, krona …), + Mixed; nästan alla modellens 345 saker används, utom vapen, vin, sprutor, lighter, tändstickor, fängelse och abstrakta (linje, sicksack, kamouflage); **8 ord per runda**, ord som `[en, sv, [klasser]]` (flera klasser kan räknas, t.ex. cup/mug). Resultat: galleri med elevens teckningar, ✓/✗, svenska ordet och "datorn trodde: …". Stjärnor per tema: 3 vid minst 6 av 8 gissade, 2 vid minst 4, annars 1 (gamla id `fordon` är nu Vehicles). **Modellen:** DoodleNet från ml5 (MIT, tränad på Quick, Draw!-data, CC BY 4.0; 345 klasser, 28×28) i `ovriga/rita/modell/` (2,2 MB, licens i `LICENS.txt`), körs med **TensorFlow.js 4.22.0** från jsdelivr (laddas när sidan öppnas; kräver internet första gången). Förbehandling (kontrollerad): beskär till teckningens ruta, vita streck (7 px) på svart på 112 px, skala till 28. Teckningarna skickas ingenstans. Klistermärket Konstnären (tre stjärnor i ett tema). | `mattespel-rita-v1` ({stars, ritat}; i startsidans stjärnor, `snap`, `PKEYS` och `MPStjarnor`) |
